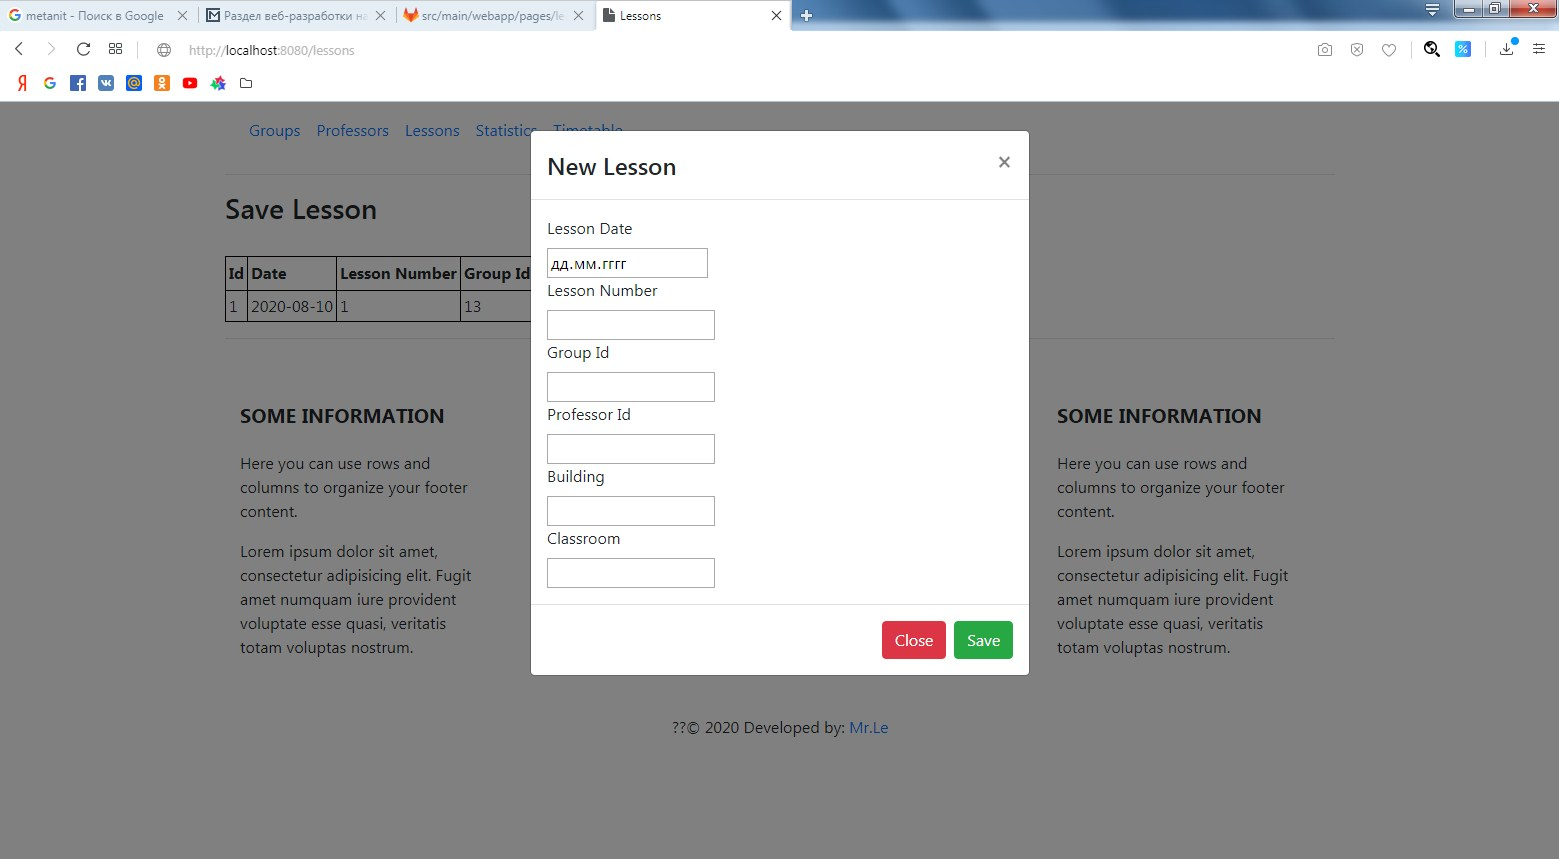
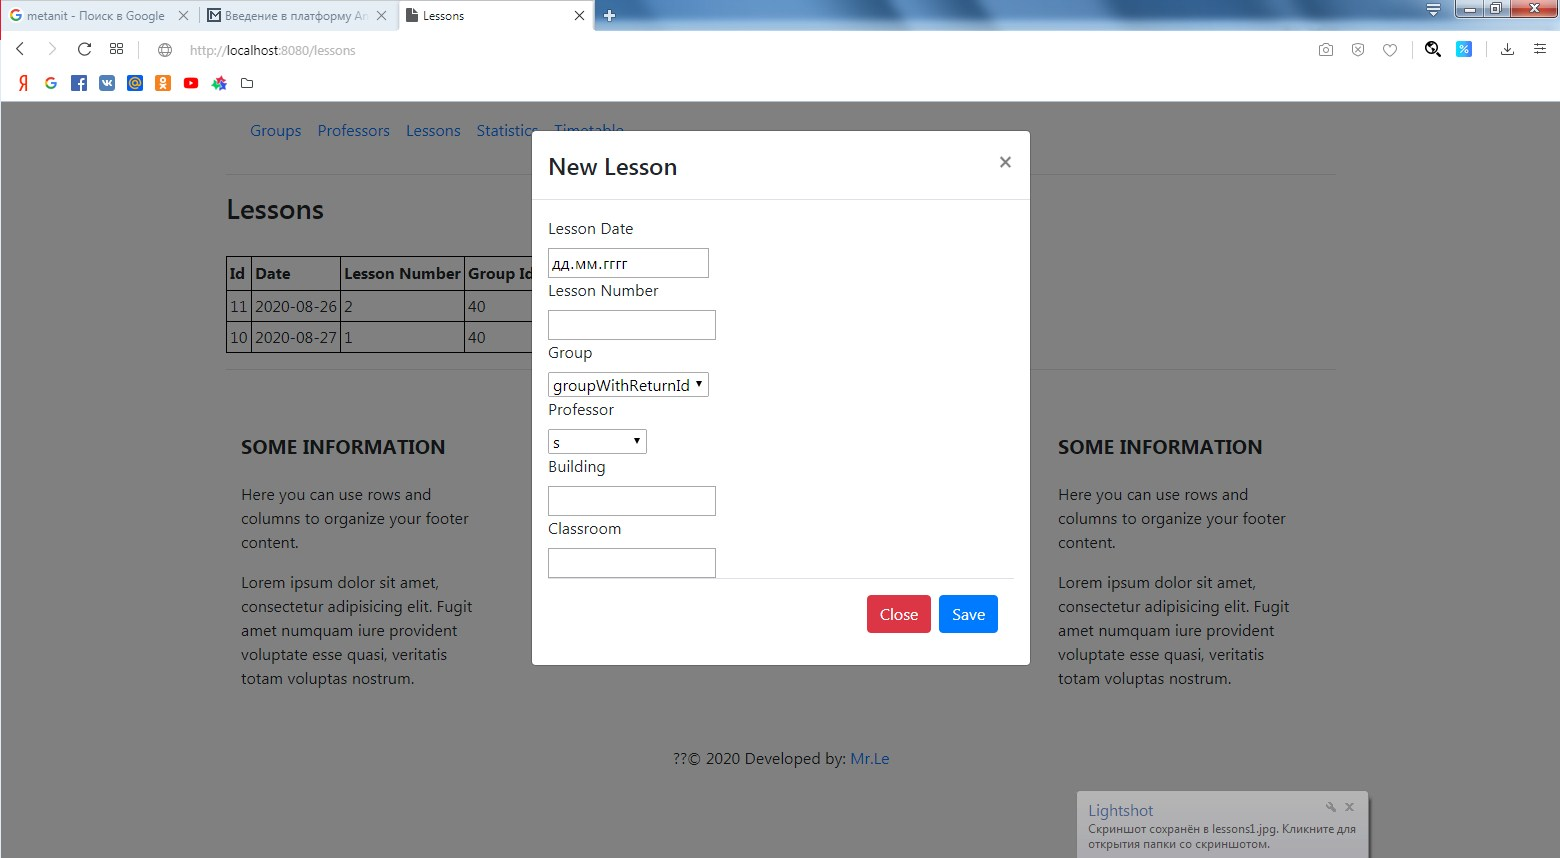
Task 15 done

diff --git a/src/main/webapp/pages/lessons.html b/src/main/webapp/pages/lessons.html
@@ -153,12 +153,12 @@
                             <label>Group</label>
                             <br>
                             <select id="select-group-update"></select>
-                            <input id="group-id-update" type="number" name="groupId">
+                            <input id="group-id-update" type="number" name="groupId" hidden>
                             <br>
                             <label>Professor</label>
                             <br>
                             <select id="select-professor-update"></select>
-                            <input id="professor-id-update" type="number" name="professorId">
+                            <input id="professor-id-update" type="number" name="professorId" hidden>
                             <br>
                             <label>Building</label>
                             <br>
@@ -170,7 +170,7 @@
                             <!-- Modal footer -->
                             <div class="modal-footer">
                                 <button type="button" class="btn btn-danger" data-dismiss="modal">Close</button>
-                                <button type="submit" class="btn btn-primary">Save</button>
+                                <button type="submit" class="btn btn-primary">Update</button>
                             </div>
                         </form>
                     </div>

diff --git a/src/main/webapp/pages/statistics.html b/src/main/webapp/pages/statistics.html
@@ -55,7 +55,7 @@
                     <label>Till</label>
                     <br>
                     <input type="date" name="till">
-                    <input class="btn btn-success" type="button" onclick="return getGroupEmployment()"
+                    <input class="btn btn-primary" type="button" onclick="return getGroupEmployment()"
                            value="Get Statistic">
                 </form>
                 <br>
@@ -76,7 +76,7 @@
                     <label>Till</label>
                     <br>
                     <input type="date" name="till">
-                    <input class="btn btn-success" type="button" onclick="return getProfessorEmployment()"
+                    <input class="btn btn-primary" type="button" onclick="return getProfessorEmployment()"
                            value="Get Statistic">
                 </form>
                 <br>

diff --git a/src/main/webapp/pages/timetable.html b/src/main/webapp/pages/timetable.html
@@ -55,7 +55,7 @@
                     <label>Till</label>
                     <br>
                     <input type="date" name="till">
-                    <input class="btn btn-success" type="button" onclick="return getGroupTimetable()"
+                    <input class="btn btn-primary" type="button" onclick="return getGroupTimetable()"
                            value="Get Timetable">
                 </form>
             </div>
@@ -74,7 +74,7 @@
                     <label>Till</label>
                     <br>
                     <input type="date" name="till">
-                    <input class="btn btn-success" type="button" onclick="return getProfessorTimetable()"
+                    <input class="btn btn-primary" type="button" onclick="return getProfessorTimetable()"
                            value="Get Timetable">
                 </form>
             </div>

diff --git a/src/main/webapp/pages/groups.html b/src/main/webapp/pages/groups.html
@@ -90,7 +90,7 @@
                             <div class="modal-footer">
                                 <button type="button" class="btn btn-danger" data-dismiss="modal">Close
                                 </button>
-                                <button type="submit" class="btn btn-success">Save</button>
+                                <button type="submit" class="btn btn-primary">Save</button>
                             </div>
                         </form>
                     </div>
